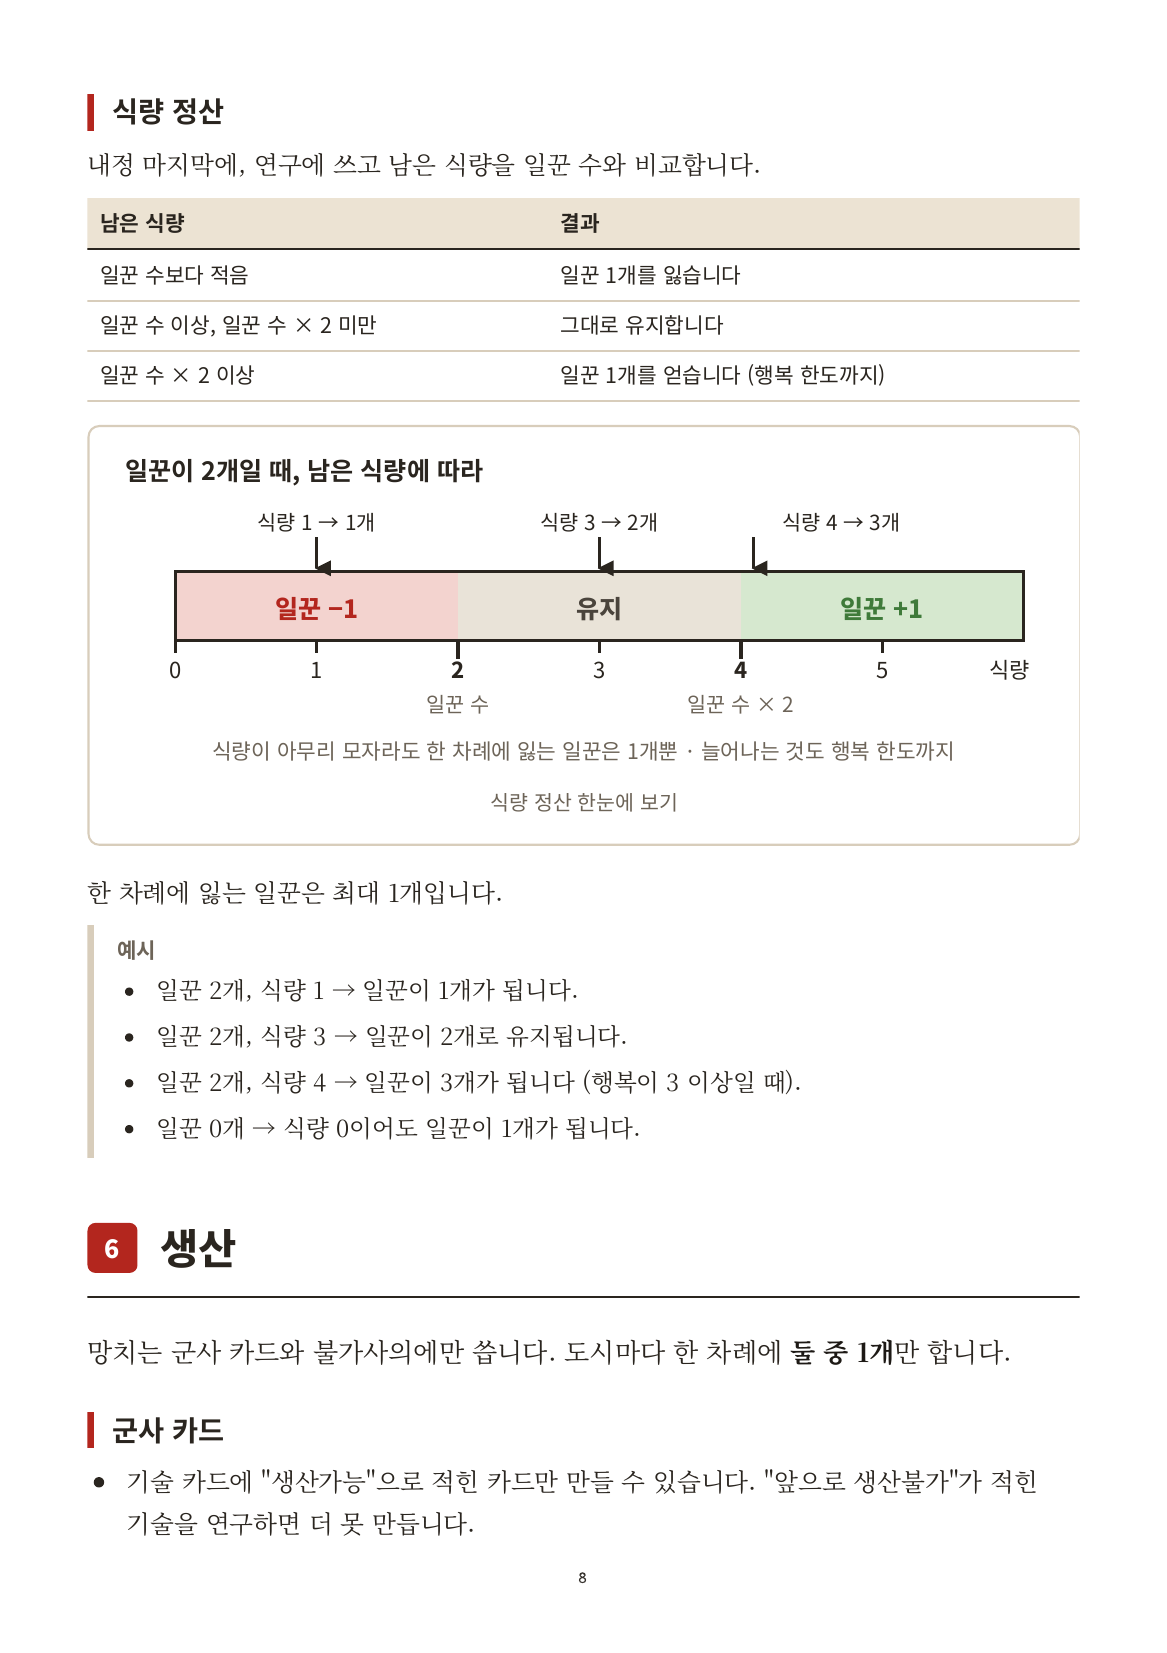
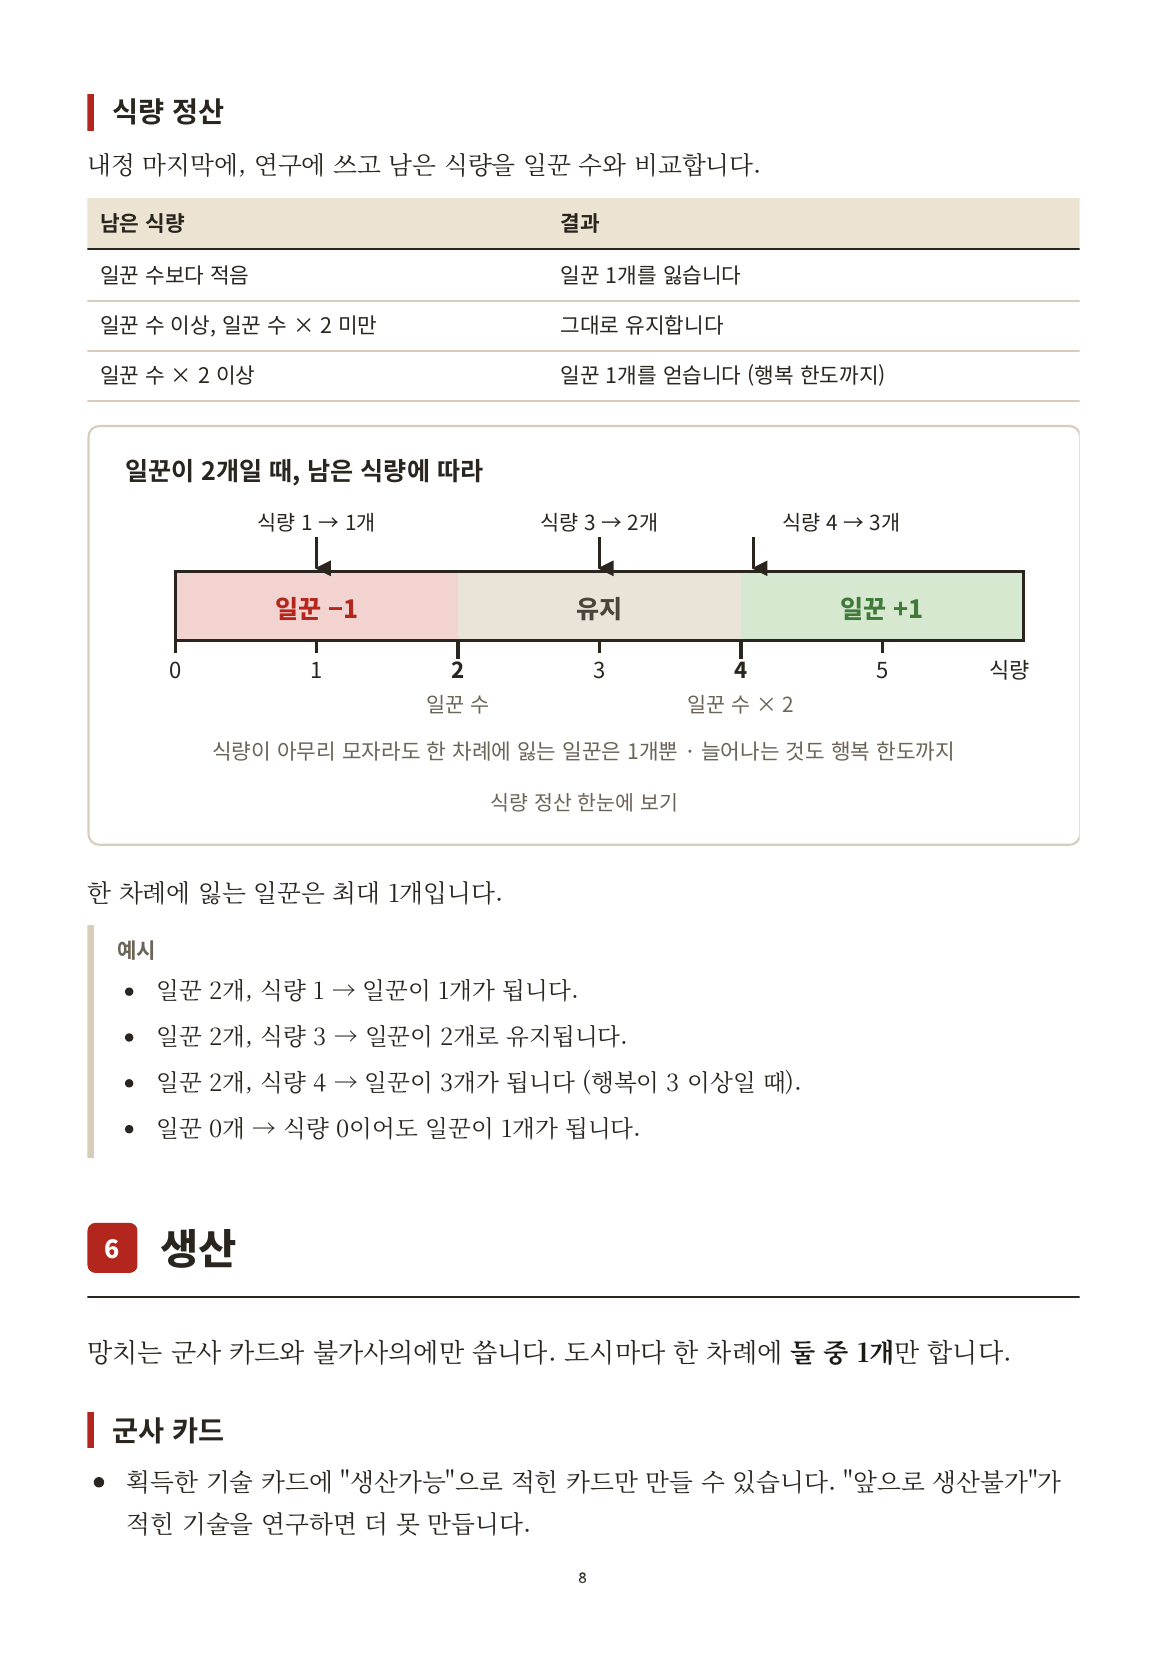
규칙서 6장: "획득한 기술 카드", 승급은 "상위 카드 망치 비용만큼 금"으로 문구 수정
Claude-Session: https://claude.ai/code/session_01LEwiRiXRJPjckZxHM1aEbm

diff --git a/docs/rulebook/source/part2.html b/docs/rulebook/source/part2.html
@@ -5,7 +5,7 @@
 
   <h3>군사 카드</h3>
   <ul>
-    <li>기술 카드에 "생산가능"으로 적힌 카드만 만들 수 있습니다. "앞으로 생산불가"가 적힌 기술을 연구하면 더 못 만듭니다.</li>
+    <li>획득한 기술 카드에 "생산가능"으로 적힌 카드만 만들 수 있습니다. "앞으로 생산불가"가 적힌 기술을 연구하면 더 못 만듭니다.</li>
     <li>카드에 적힌 망치를 내고 공용 덱에서 가져옵니다. 한 종류당 최대 5장.</li>
     <li>같은 카드도 공격 방향이 여러 가지이며, 덱에서 가져오므로 방향은 무작위입니다.</li>
     <li>일부 카드는 조건이 있습니다. 예: 전함·제고이센은 첫 5타일에 해안이 있는 도시에서만 만듭니다.</li>
@@ -41,7 +41,7 @@
     </tbody>
   </table>
   <ul>
-    <li>가진 카드를 지금 만들 수 있는 상위 카드로 바꾸고, 상위 카드 비용만큼 금을 냅니다. 중간 등급은 건너뛸 수 있습니다.</li>
+    <li>가진 카드를 지금 만들 수 있는 상위 카드로 바꾸고, 상위 카드 망치 비용만큼 금을 냅니다. 중간 등급은 건너뛸 수 있습니다.</li>
     <li>한 차례에 1장만, 그 차례에 나온 금으로만 승급합니다 (금은 모아둘 수 없음).</li>
   </ul>
   <figure class="fig-frame">
